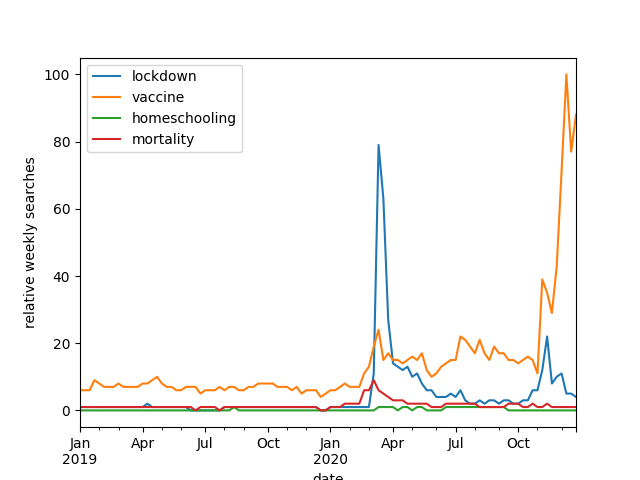
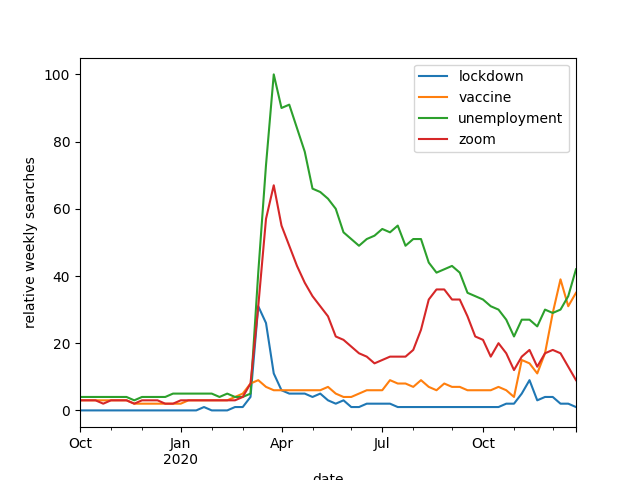
updated pyscript

diff --git a/gtrends.py b/gtrends.py
@@ -9,13 +9,13 @@ from pytrends.request import TrendReq
 # Create a pytrend object. Request data from Google. hl parameter specifies host-language.
 pytrends = TrendReq(hl='en-US', tz=360) #, tz=360, retries=10, backoff_factor=0.5
 
-# Daily Trend in US
+# Daily Trend in Germany
 trending_searches_df = pytrends.trending_searches(pn='germany')
 print(trending_searches_df.head(20))
 
 # Extract data about keyword
-kw_list = ["lockdown", "vaccine", "homeschooling", "mortality"]
-pytrends.build_payload(kw_list, cat='0', timeframe='2019-01-01 2021-01-01', geo='US', gprop='')
+kw_list = ["lockdown", "vaccine", "unemployment", "zoom"]
+pytrends.build_payload(kw_list, cat='0', timeframe='2019-10-01 2021-01-01', geo='US', gprop='')
 data = pytrends.interest_over_time().drop(['isPartial'], axis = 1)
 data.head()
 
